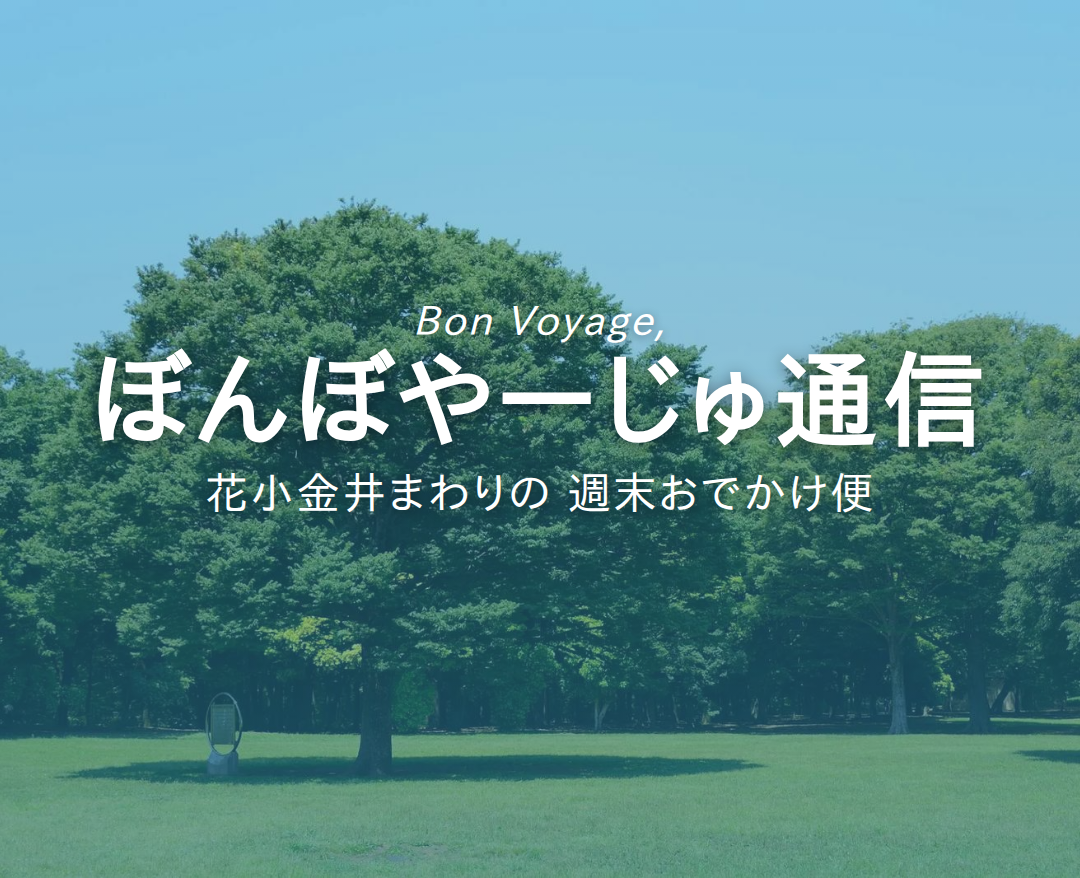
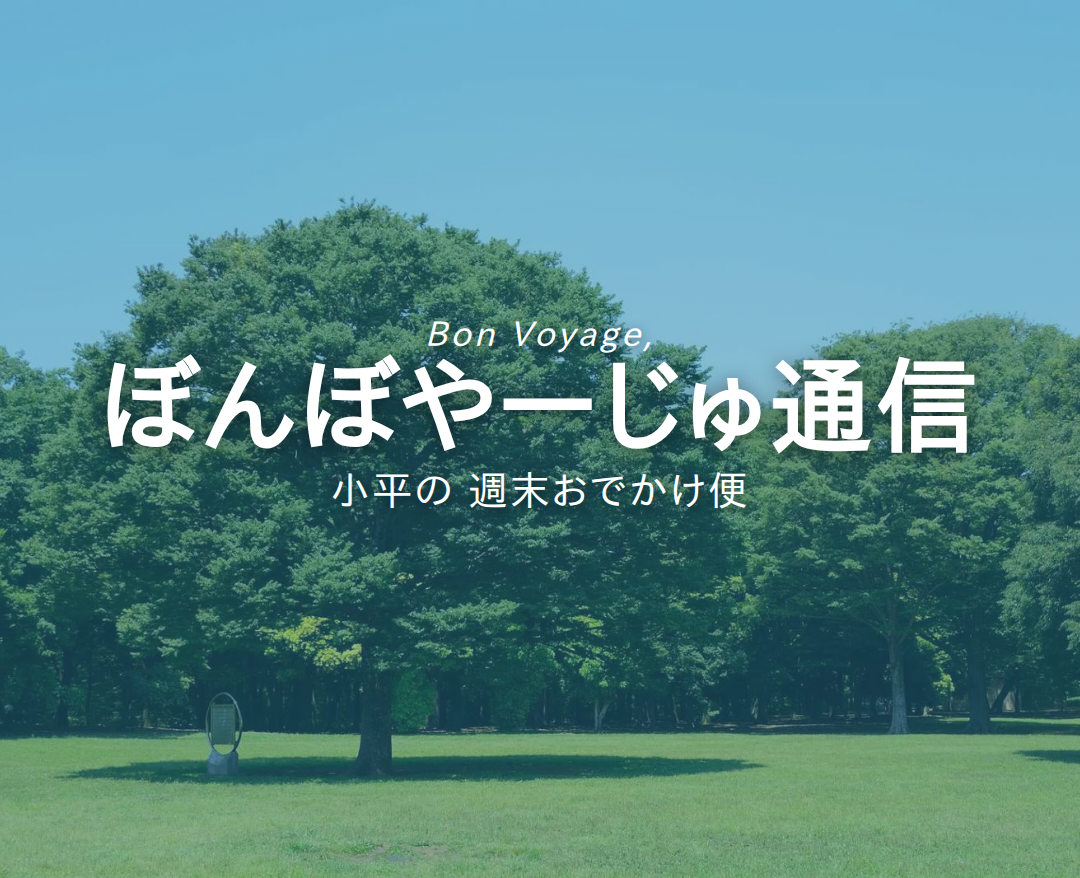
LINEのプロフィールを宛先「小平」にそろえる（カバー画像・ステータスメッセージ・紹介文）
Claude-Session: https://claude.ai/code/session_01TyaNTcqynAhK5RxtQUWRVv

Changed region(s): [[0.0917, 0.3383, 0.9167, 0.5843]]

diff --git a/docs/homepage/line-cover.html b/docs/homepage/line-cover.html
@@ -1,0 +1,23 @@
+<!doctype html>
+<html lang="ja"><head><meta charset="utf-8">
+<!-- 印刷用の版下・内部用ページ。サイトの一部として読ませるものではない -->
+<meta name="robots" content="noindex,nofollow"><title>LINE cover｜ぼんぼやーじゅ通信</title>
+<style>
+*{margin:0;padding:0;box-sizing:border-box;}
+html,body{width:1080px;height:878px;}
+body{font-family:"IPAPGothic","IPAGothic",sans-serif;-webkit-font-smoothing:antialiased;}
+.cover{width:1080px;height:878px;position:relative;overflow:hidden;
+  background-image:linear-gradient(rgba(44,124,158,.45),rgba(44,124,158,.45)),url('assets/hero-park.jpg');
+  background-size:cover;background-position:center 40%;}
+.in{position:absolute;top:47%;left:50%;transform:translate(-50%,-50%);text-align:center;color:#fff;width:100%;}
+.eyebrow{font-size:34px;font-style:italic;letter-spacing:3px;text-shadow:0 2px 12px rgba(0,0,0,.45);}
+.brand{font-size:104px;font-weight:800;letter-spacing:2px;white-space:nowrap;margin-top:2px;text-shadow:0 3px 20px rgba(0,0,0,.5);}
+.sub{font-size:40px;margin-top:14px;letter-spacing:2px;text-shadow:0 2px 12px rgba(0,0,0,.45);}
+</style></head>
+<body><div class="cover">
+  <div class="in">
+    <div class="eyebrow">Bon Voyage,</div>
+    <div class="brand">ぼんぼやーじゅ通信</div>
+    <div class="sub">小平の 週末おでかけ便</div>
+  </div>
+</div></body></html>

diff --git a/docs/share-kit.md b/docs/share-kit.md
@@ -116,16 +116,17 @@ https://bonvoya.nicomaru.tokyo/
 
 ### 画像
 - アイコン: `docs/homepage/assets/line-icon.png`(円で表示・中央構成)
-- カバー背景: `docs/homepage/assets/line-cover.png`(1080×878)
+- カバー背景: `docs/homepage/assets/line-cover.png`(1080×878)。版下は `docs/homepage/line-cover.html`
+  （2026-09-26 「花小金井まわりの」→「小平の」に作り直し。宛先は小平＝CLAUDE.md「宛先と行き先」）
 
 ### ステータスメッセージ(20字以内)
 ```
-花小金井まわりの週末おでかけ便🎈
+小平の週末おでかけ便🎈
 ```
 
 ### 紹介文(説明)
 ```
-花小金井まわりの週末おでかけ情報を、毎週水曜にお届けする無料LINEです🎈 未就学〜小学生のいるご家庭へ、公園・児童館・図書館・科学館・季節のお祭り・電車でおでかけ…天気に合わせた「今週これ」や連休のおでかけアイデアも。友だち追加で「花小金井 子連れおでかけガイド」もプレゼント。
+小平の未就学児〜小学生のいるご家庭へ、週末のおでかけ情報を毎週水曜にお届けする無料LINEです🎈 未就学〜小学生のいるご家庭へ、公園・児童館・図書館・科学館・季節のお祭り・電車でおでかけ…天気に合わせた「今週これ」や連休のおでかけアイデアも。友だち追加で「花小金井 子連れおでかけガイド」もプレゼント。
 ```
 
 ### 設定場所(LINE Official Account Manager)
